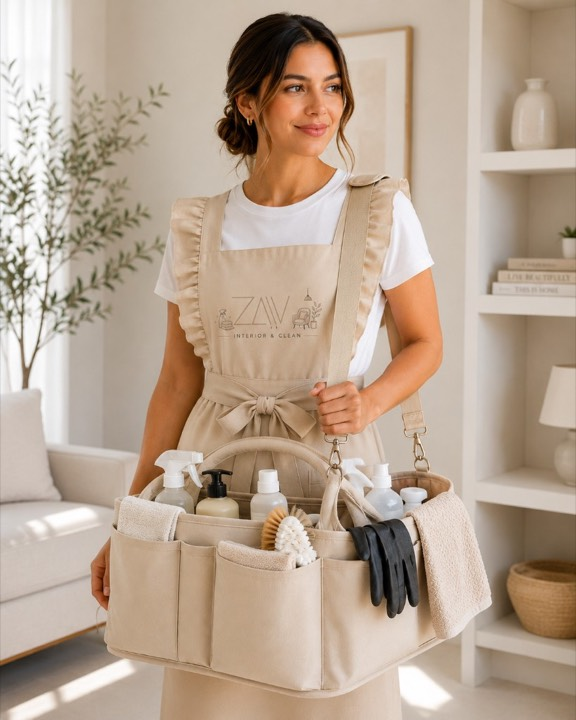
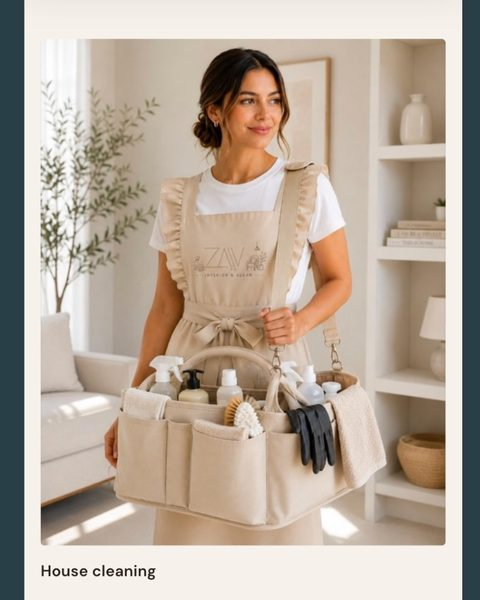
Update House cleaning photo and add Home decor styling service.
Replace the first service tile image and insert decor styling as the second tile.

diff --git a/src/i18n/messages.ts b/src/i18n/messages.ts
@@ -61,7 +61,7 @@ const messages = {
       home: 'House cleaning',
       deep: 'Deep cleaning',
       move: 'Move-in / move-out',
-      interior: 'Interior refresh',
+      interior: 'Home decor styling',
     },
     sizes: {
       studio: 'Studio / 1 bed',
@@ -184,7 +184,7 @@ const messages = {
       home: 'Limpieza del hogar',
       deep: 'Limpieza profunda',
       move: 'Mudanza (entrada / salida)',
-      interior: 'Refresco de interiores',
+      interior: 'Estilo y decoración',
     },
     sizes: {
       studio: 'Estudio / 1 habitación',
@@ -307,7 +307,7 @@ const messages = {
       home: 'Limpeza residencial',
       deep: 'Limpeza profunda',
       move: 'Mudança (entrada / saída)',
-      interior: 'Refresh de interiores',
+      interior: 'Estilo e decoração',
     },
     sizes: {
       studio: 'Studio / 1 quarto',

diff --git a/src/lib/mail.ts b/src/lib/mail.ts
@@ -121,7 +121,7 @@ const labels = {
       home: 'Home cleaning',
       deep: 'Deep cleaning',
       move: 'Move-in / move-out',
-      interior: 'Interior refresh',
+      interior: 'Home decor styling',
     },
     sizes: {
       studio: 'Studio / 1 bed',
@@ -155,7 +155,7 @@ const labels = {
       home: 'Limpieza del hogar',
       deep: 'Limpieza profunda',
       move: 'Mudanza (entrada / salida)',
-      interior: 'Refresco de interiores',
+      interior: 'Estilo y decoración',
     },
     sizes: {
       studio: 'Estudio / 1 habitación',
@@ -189,7 +189,7 @@ const labels = {
       home: 'Limpeza residencial',
       deep: 'Limpeza profunda',
       move: 'Mudança (entrada / saída)',
-      interior: 'Refresh de interiores',
+      interior: 'Estilo e decoração',
     },
     sizes: {
       studio: 'Studio / 1 quarto',

diff --git a/src/lib/quote-notify.ts b/src/lib/quote-notify.ts
@@ -15,7 +15,7 @@ const labels = {
       home: 'House cleaning',
       deep: 'Deep cleaning',
       move: 'Move-in / move-out',
-      interior: 'Interior refresh',
+      interior: 'Home decor styling',
     },
     sizes: {
       studio: 'Studio / 1 bed',
@@ -43,7 +43,7 @@ const labels = {
       home: 'Limpieza del hogar',
       deep: 'Limpieza profunda',
       move: 'Mudanza (entrada / salida)',
-      interior: 'Refresco de interiores',
+      interior: 'Estilo y decoración',
     },
     sizes: {
       studio: 'Estudio / 1 habitación',
@@ -71,7 +71,7 @@ const labels = {
       home: 'Limpeza residencial',
       deep: 'Limpeza profunda',
       move: 'Mudança (entrada / saída)',
-      interior: 'Refresh de interiores',
+      interior: 'Estilo e decoração',
     },
     sizes: {
       studio: 'Studio / 1 quarto',